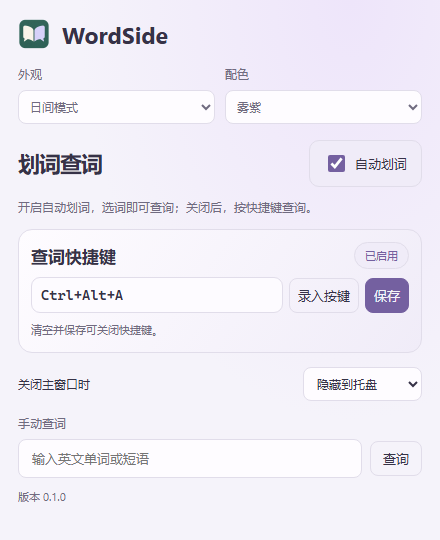
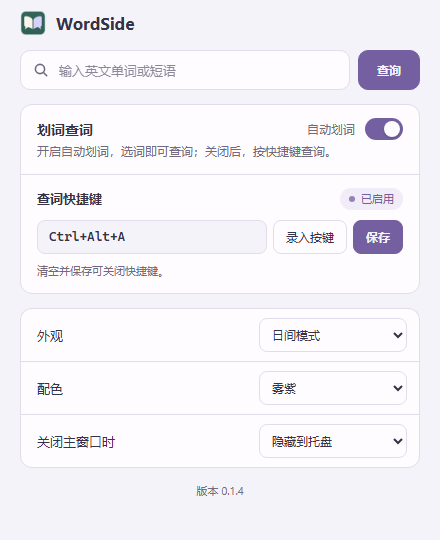
chore: release WordSide 0.1.4 (#10)

diff --git a/README.md b/README.md
@@ -3,9 +3,9 @@
 </p>
 <h1 align="center">WordSide · 词伴</h1>
 <p align="center">选中一个词，读懂它。<br>一个安静、紧凑的 Windows 划词词典。</p>
-<p align="center"><strong>0.1.3 · Windows x64 · Cambridge Dictionary</strong></p>
+<p align="center"><strong>0.1.4 · Windows x64 · Cambridge Dictionary</strong></p>
 <p align="center">
-  <a href="https://github.com/caoshuo2003/wordside/releases/tag/v0.1.3">下载 WordSide</a> ·
+  <a href="https://github.com/caoshuo2003/wordside/releases/tag/v0.1.4">下载 WordSide</a> ·
   <a href="docs/USER-GUIDE.md">使用指南</a> ·
   <a href="docs/FAQ.md">常见问题</a> ·
   <a href="docs/PRIVACY.md">隐私与数据</a>
@@ -17,16 +17,16 @@
 
 *界面预览，使用示例词条。[图片说明](docs/SCREENSHOTS.md)*
 
-**0.1.3 更新**：改善网页连续取词与 PowerShell 7 快捷键取词，修复 `minutes` 释义不可用的问题。[查看本版变化](docs/releases/v0.1.3.md)
+**0.1.4 更新**：修复刚启动或长时间闲置后取词无反应、Chrome 网页误提示“请重新选词”，改善 Pebrel 取词；浮窗与主窗口外观更新。[查看本版变化](docs/releases/v0.1.4.md)
 
 ## 下载与开始
 
-从 [0.1.3 发布页](https://github.com/caoshuo2003/wordside/releases/tag/v0.1.3) 下载，选择一种方式即可：
+从 [0.1.4 发布页](https://github.com/caoshuo2003/wordside/releases/tag/v0.1.4) 下载，选择一种方式即可：
 
 | 方式 | 下载 | 使用方式 |
 |---|---|---|
-| 安装版 · 推荐 | [Windows x64 安装包](https://github.com/caoshuo2003/wordside/releases/download/v0.1.3/WordSide_0.1.3_x64-setup.exe) | 按提示安装，然后打开 WordSide |
-| 便携版 | [ZIP 压缩包](https://github.com/caoshuo2003/wordside/releases/download/v0.1.3/WordSide_0.1.3-portable.zip) | 解压全部文件，运行其中的 WordSide |
+| 安装版 · 推荐 | [Windows x64 安装包](https://github.com/caoshuo2003/wordside/releases/download/v0.1.4/WordSide_0.1.4_x64-setup.exe) | 按提示安装，然后打开 WordSide |
+| 便携版 | [ZIP 压缩包](https://github.com/caoshuo2003/wordside/releases/download/v0.1.4/WordSide_0.1.4-portable.zip) | 解压全部文件，运行其中的 WordSide |
 
 需要 **Windows x64**、**Microsoft Edge WebView2** 和能访问 Cambridge 的网络。查词功能已内置，安装后即可开始。
 
@@ -34,7 +34,7 @@
 2. 想选中就查，打开“自动划词”；想自己触发，选中单词后按 **Ctrl+Alt+A**。快捷键可以在设置里修改。
 3. 把浮窗拖到顺手的位置，调整大小，再选一套喜欢的配色。
 
-[完整使用指南](docs/USER-GUIDE.md) · [安装问题](docs/FAQ.md#安装与运行) · [取词与已知限制](docs/FAQ.md#取词与快捷键) · [隐私与数据](docs/PRIVACY.md) · [本版说明](docs/releases/v0.1.3.md)
+[完整使用指南](docs/USER-GUIDE.md) · [安装问题](docs/FAQ.md#安装与运行) · [取词与已知限制](docs/FAQ.md#取词与快捷键) · [隐私与数据](docs/PRIVACY.md) · [本版说明](docs/releases/v0.1.4.md)
 
 ## 查词时，你可以
 

diff --git a/docs/RELEASING.md b/docs/RELEASING.md
@@ -39,22 +39,22 @@ PR 的实际 CI 通过后合入 main，确认工作树干净并创建 annotated 
 ```sh
 git switch main
 git pull --ff-only
-git tag -a v0.1.3 -m "WordSide 0.1.3"
-git push origin v0.1.3
+git tag -a v0.1.4 -m "WordSide 0.1.4"
+git push origin v0.1.4
 ```
 
-以上以 v0.1.3 为例；已有标签不覆盖、不移动，也不推送本机所有历史标签。
+以上以 v0.1.4 为例；已有标签不覆盖、不移动，也不推送本机所有历史标签。
 
 ## 4 · 发布并核对
 
 GitHub CLI 已登录且具有仓库发布权限时，可运行：
 
 ```sh
-gh release create v0.1.3 --repo caoshuo2003/wordside \
+gh release create v0.1.4 --repo caoshuo2003/wordside \
   --verify-tag --latest \
-  --title "WordSide · 词伴 0.1.3" --notes-file docs/releases/v0.1.3.md \
-  release/v0.1.3/WordSide_0.1.3.exe release/v0.1.3/WordSide_0.1.3_x64-setup.exe \
-  release/v0.1.3/WordSide_0.1.3-portable.zip release/v0.1.3/THIRD-PARTY-LICENSES_0.1.3.txt
+  --title "WordSide · 词伴 0.1.4" --notes-file docs/releases/v0.1.4.md \
+  release/v0.1.4/WordSide_0.1.4.exe release/v0.1.4/WordSide_0.1.4_x64-setup.exe \
+  release/v0.1.4/WordSide_0.1.4-portable.zip release/v0.1.4/THIRD-PARTY-LICENSES_0.1.4.txt
 ```
 
 发布前确认目标仓库、版本标签、Release 附件和实际 CI 结果一致。正式版使用 `--latest` 作为默认下载版本；提前试用的版本使用 `--prerelease --latest=false`。发布说明面向使用者，不重复粘贴构建日志与测试清单。

diff --git a/docs/USER-GUIDE.md b/docs/USER-GUIDE.md
@@ -2,17 +2,17 @@
 
 选中英文，查看释义，然后继续阅读。
 
-[下载 0.1.3](https://github.com/caoshuo2003/wordside/releases/tag/v0.1.3) · [常见问题](FAQ.md) · [隐私与数据](PRIVACY.md) · [返回首页](../README.md)
+[下载 0.1.4](https://github.com/caoshuo2003/wordside/releases/tag/v0.1.4) · [常见问题](FAQ.md) · [隐私与数据](PRIVACY.md) · [返回首页](../README.md)
 
 ## 安装与第一次查词
 
-WordSide 0.1.3 支持 **Windows x64**，需要 Microsoft Edge WebView2 和可访问 Cambridge 的网络。取词兼容与安装问题见[常见问题](FAQ.md)。
+WordSide 0.1.4 支持 **Windows x64**，需要 Microsoft Edge WebView2 和可访问 Cambridge 的网络。取词兼容与安装问题见[常见问题](FAQ.md)。
 
 | 方式 | 操作 |
 |---|---|
-| 安装版 · 推荐 | 下载 `WordSide_0.1.3_x64-setup.exe`，按提示安装，打开 WordSide |
-| 便携版 | 下载 `WordSide_0.1.3-portable.zip`，解压全部文件，运行其中的程序 |
-| 单独 EXE | 下载并运行 `WordSide_0.1.3.exe`；同一发布页提供第三方许可文件 |
+| 安装版 · 推荐 | 下载 `WordSide_0.1.4_x64-setup.exe`，按提示安装，打开 WordSide |
+| 便携版 | 下载 `WordSide_0.1.4-portable.zip`，解压全部文件，运行其中的程序 |
+| 单独 EXE | 下载并运行 `WordSide_0.1.4.exe`；同一发布页提供第三方许可文件 |
 
 打开后，在顶部的查词框输入英文单词或短语，点击“查询”，即可查看词条。
 

diff --git a/docs/releases/v0.1.4.md b/docs/releases/v0.1.4.md
@@ -1,0 +1,13 @@
+# WordSide · 词伴 0.1.4
+
+- 修复刚启动时取词无反应的问题；取词窗口初始化失败后会自动重试。
+- 修复长时间闲置或开机时系统繁忙后，取词失灵、需要退出重开才能恢复的问题；现在会自动恢复。
+- 修复在 Chrome 网页（如 GitHub）中按快捷键取词时，误提示“请重新选词”的问题。
+- 改善 Pebrel 终端中的自动划词与快捷键取词。
+- 复制取词时不再抢先占用剪贴板，减少偶发的“这里暂时无法取词”。
+- 查词浮窗在 Windows 11 上使用系统圆角与细边框，颜色跟随配色。
+- 主窗口标题栏跟随配色；查词框移到顶部，自动划词改为开关，设置分组整理。
+
+更新前，请先从托盘退出旧版，再安装或运行新版；原有设置会保留。
+
+[安装版](https://github.com/caoshuo2003/wordside/releases/download/v0.1.4/WordSide_0.1.4_x64-setup.exe) · [便携版](https://github.com/caoshuo2003/wordside/releases/download/v0.1.4/WordSide_0.1.4-portable.zip) · [使用指南](https://github.com/caoshuo2003/wordside/blob/main/docs/USER-GUIDE.md)

diff --git a/CONTRIBUTING.md b/CONTRIBUTING.md
@@ -52,6 +52,6 @@ JS/TS 修改执行 `npm test` / `npm run check` 的受影响范围；Windows 后
 
 ## 版本与发布
 
-当前版本为 **0.1.3 正式版**。后续修复可用 0.1.4，新功能可用 0.2.0；普通文档修改保持应用版本不变。
+当前版本为 **0.1.4 正式版**。后续修复可用 0.1.5，新功能可用 0.2.0；普通文档修改保持应用版本不变。
 
 发布从已检查的 main 创建不可移动的版本标签，流程见 [RELEASING.md](docs/RELEASING.md)。成品放 GitHub Release，不进入源码提交。main 的保护策略按当前账号可用能力配置；无须为单人起步强制要求第二个审查者。

diff --git a/CHANGELOG.md b/CHANGELOG.md
@@ -1,6 +1,6 @@
 # 变更记录
 
-## 待发布
+## 0.1.4 — 2026-10-19
 
 - 修复取词窗口初始化失败后无法自动恢复的问题，改善首次启动的就绪处理。
 - 修复长时间闲置或开机时系统繁忙后，取词监听被 Windows 停用、需要退出重开才能恢复的问题；现在会自动重新启用。
